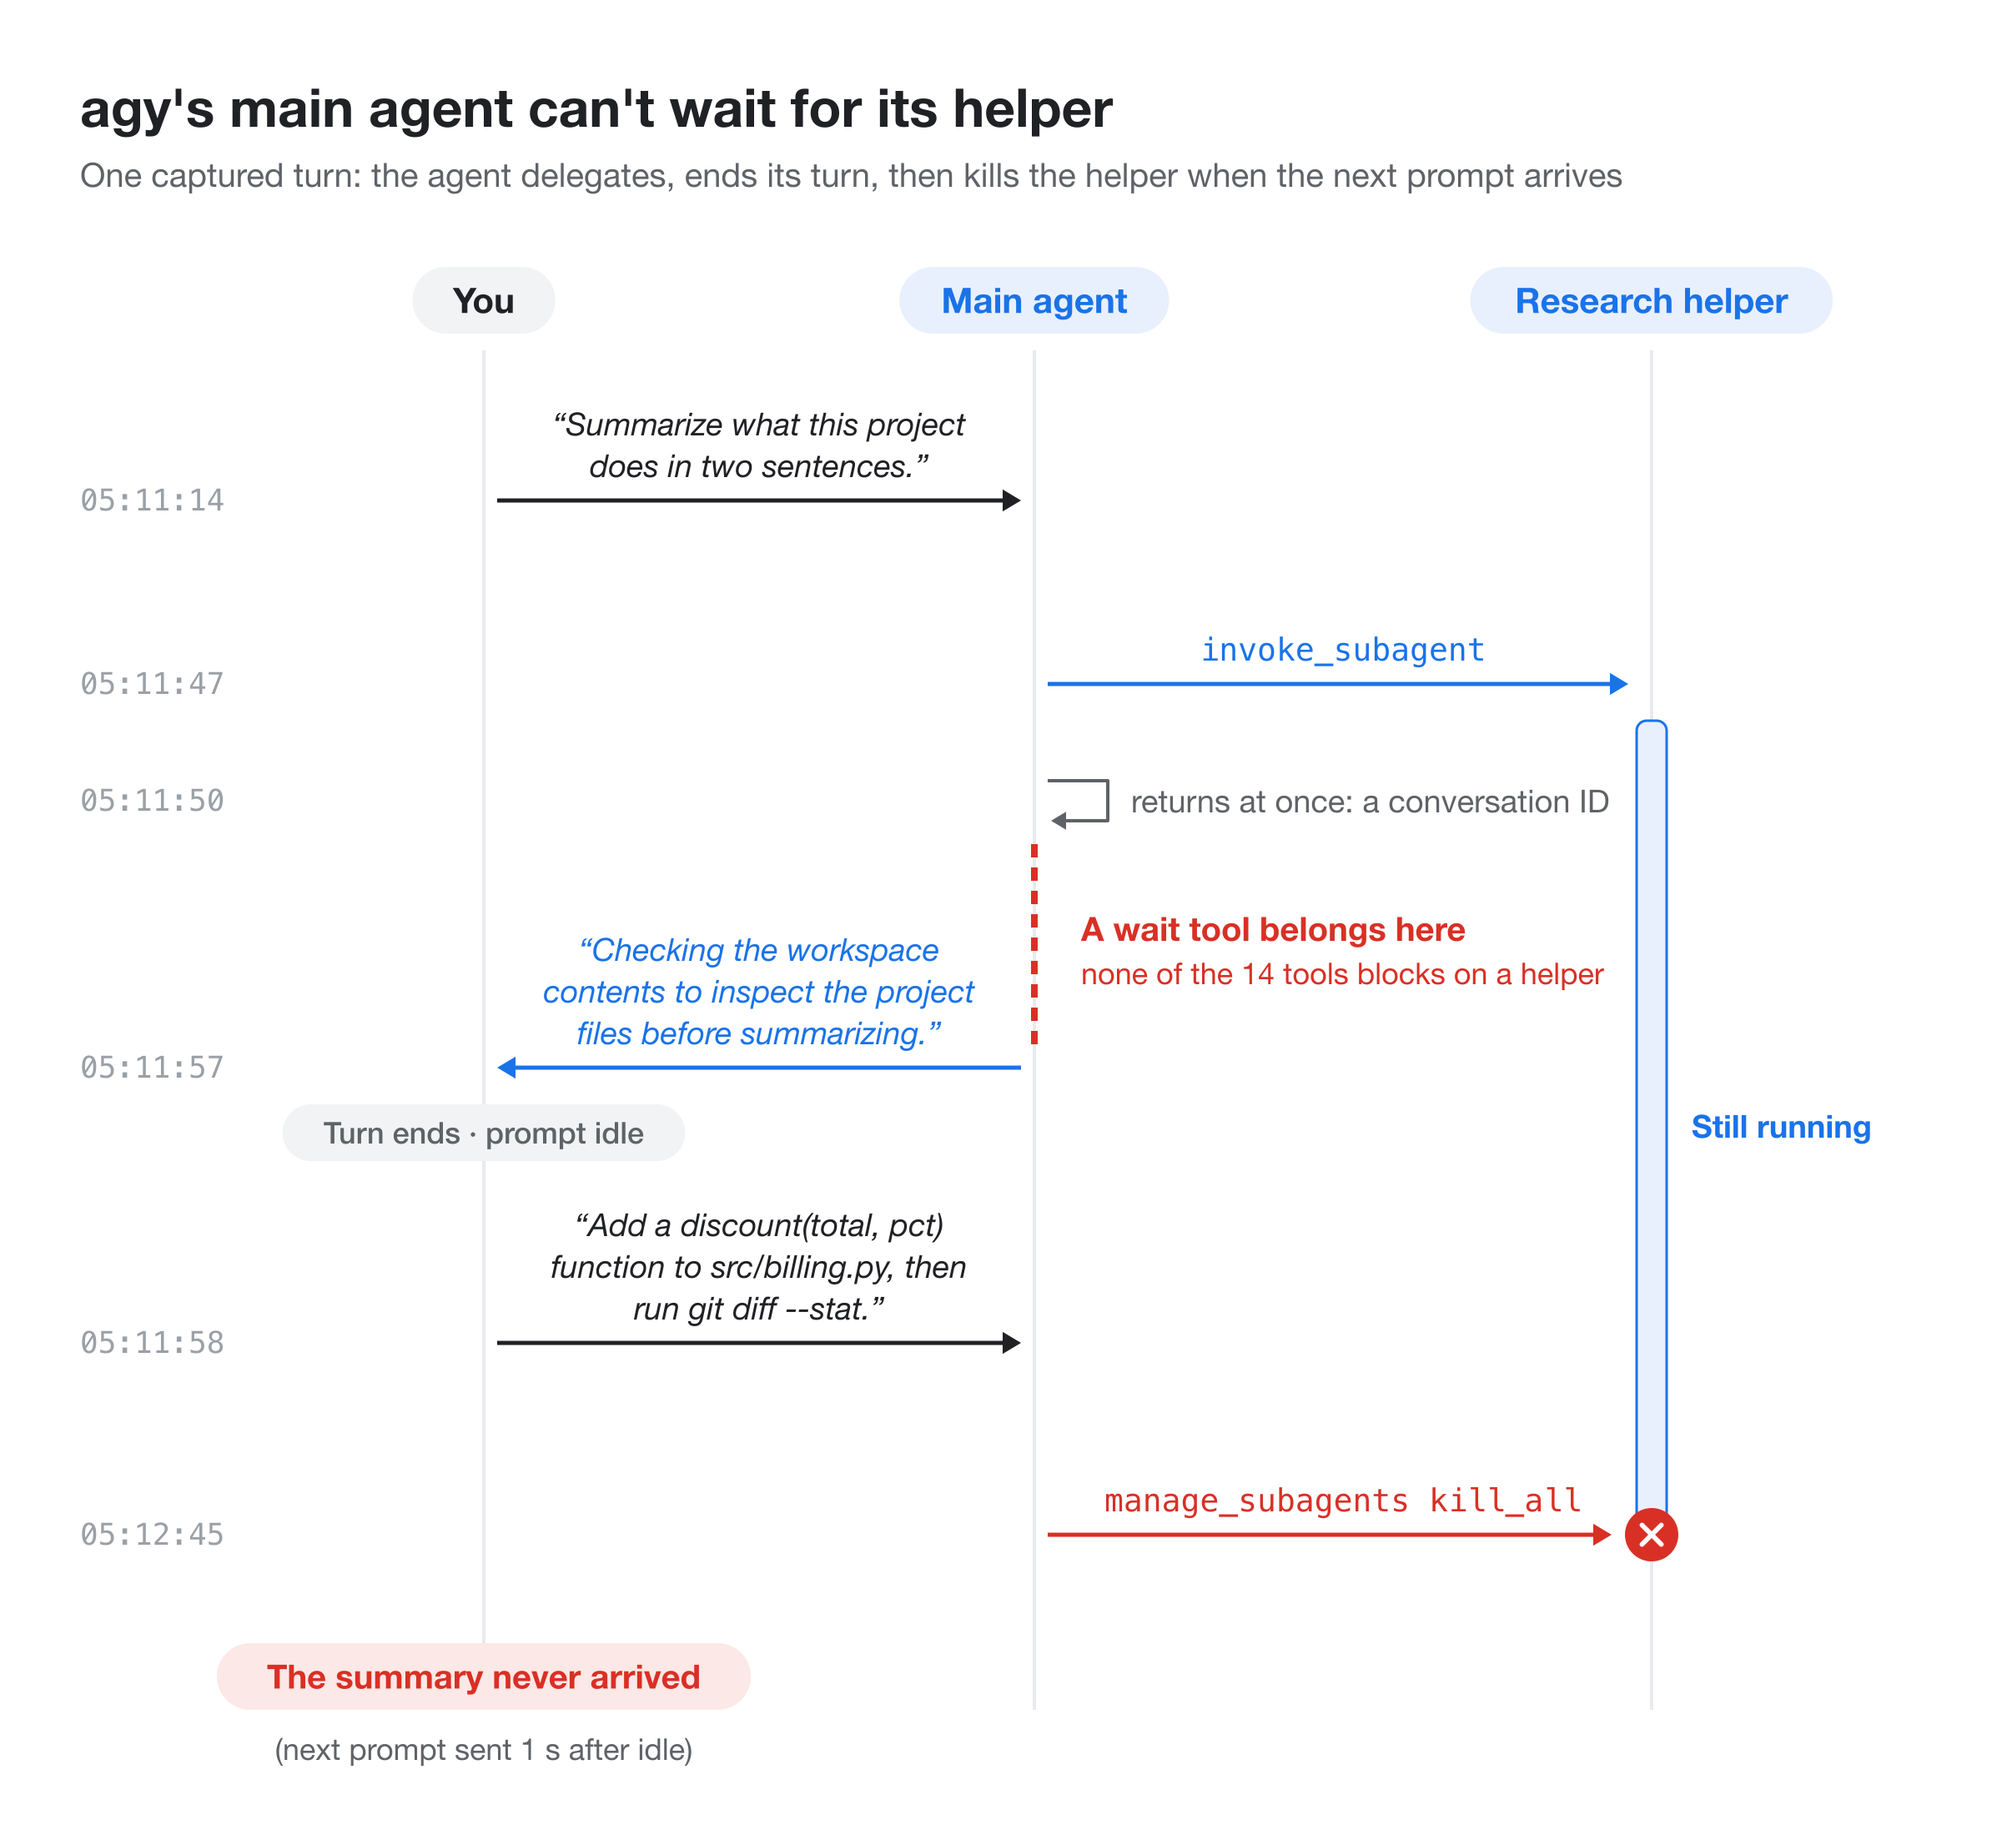
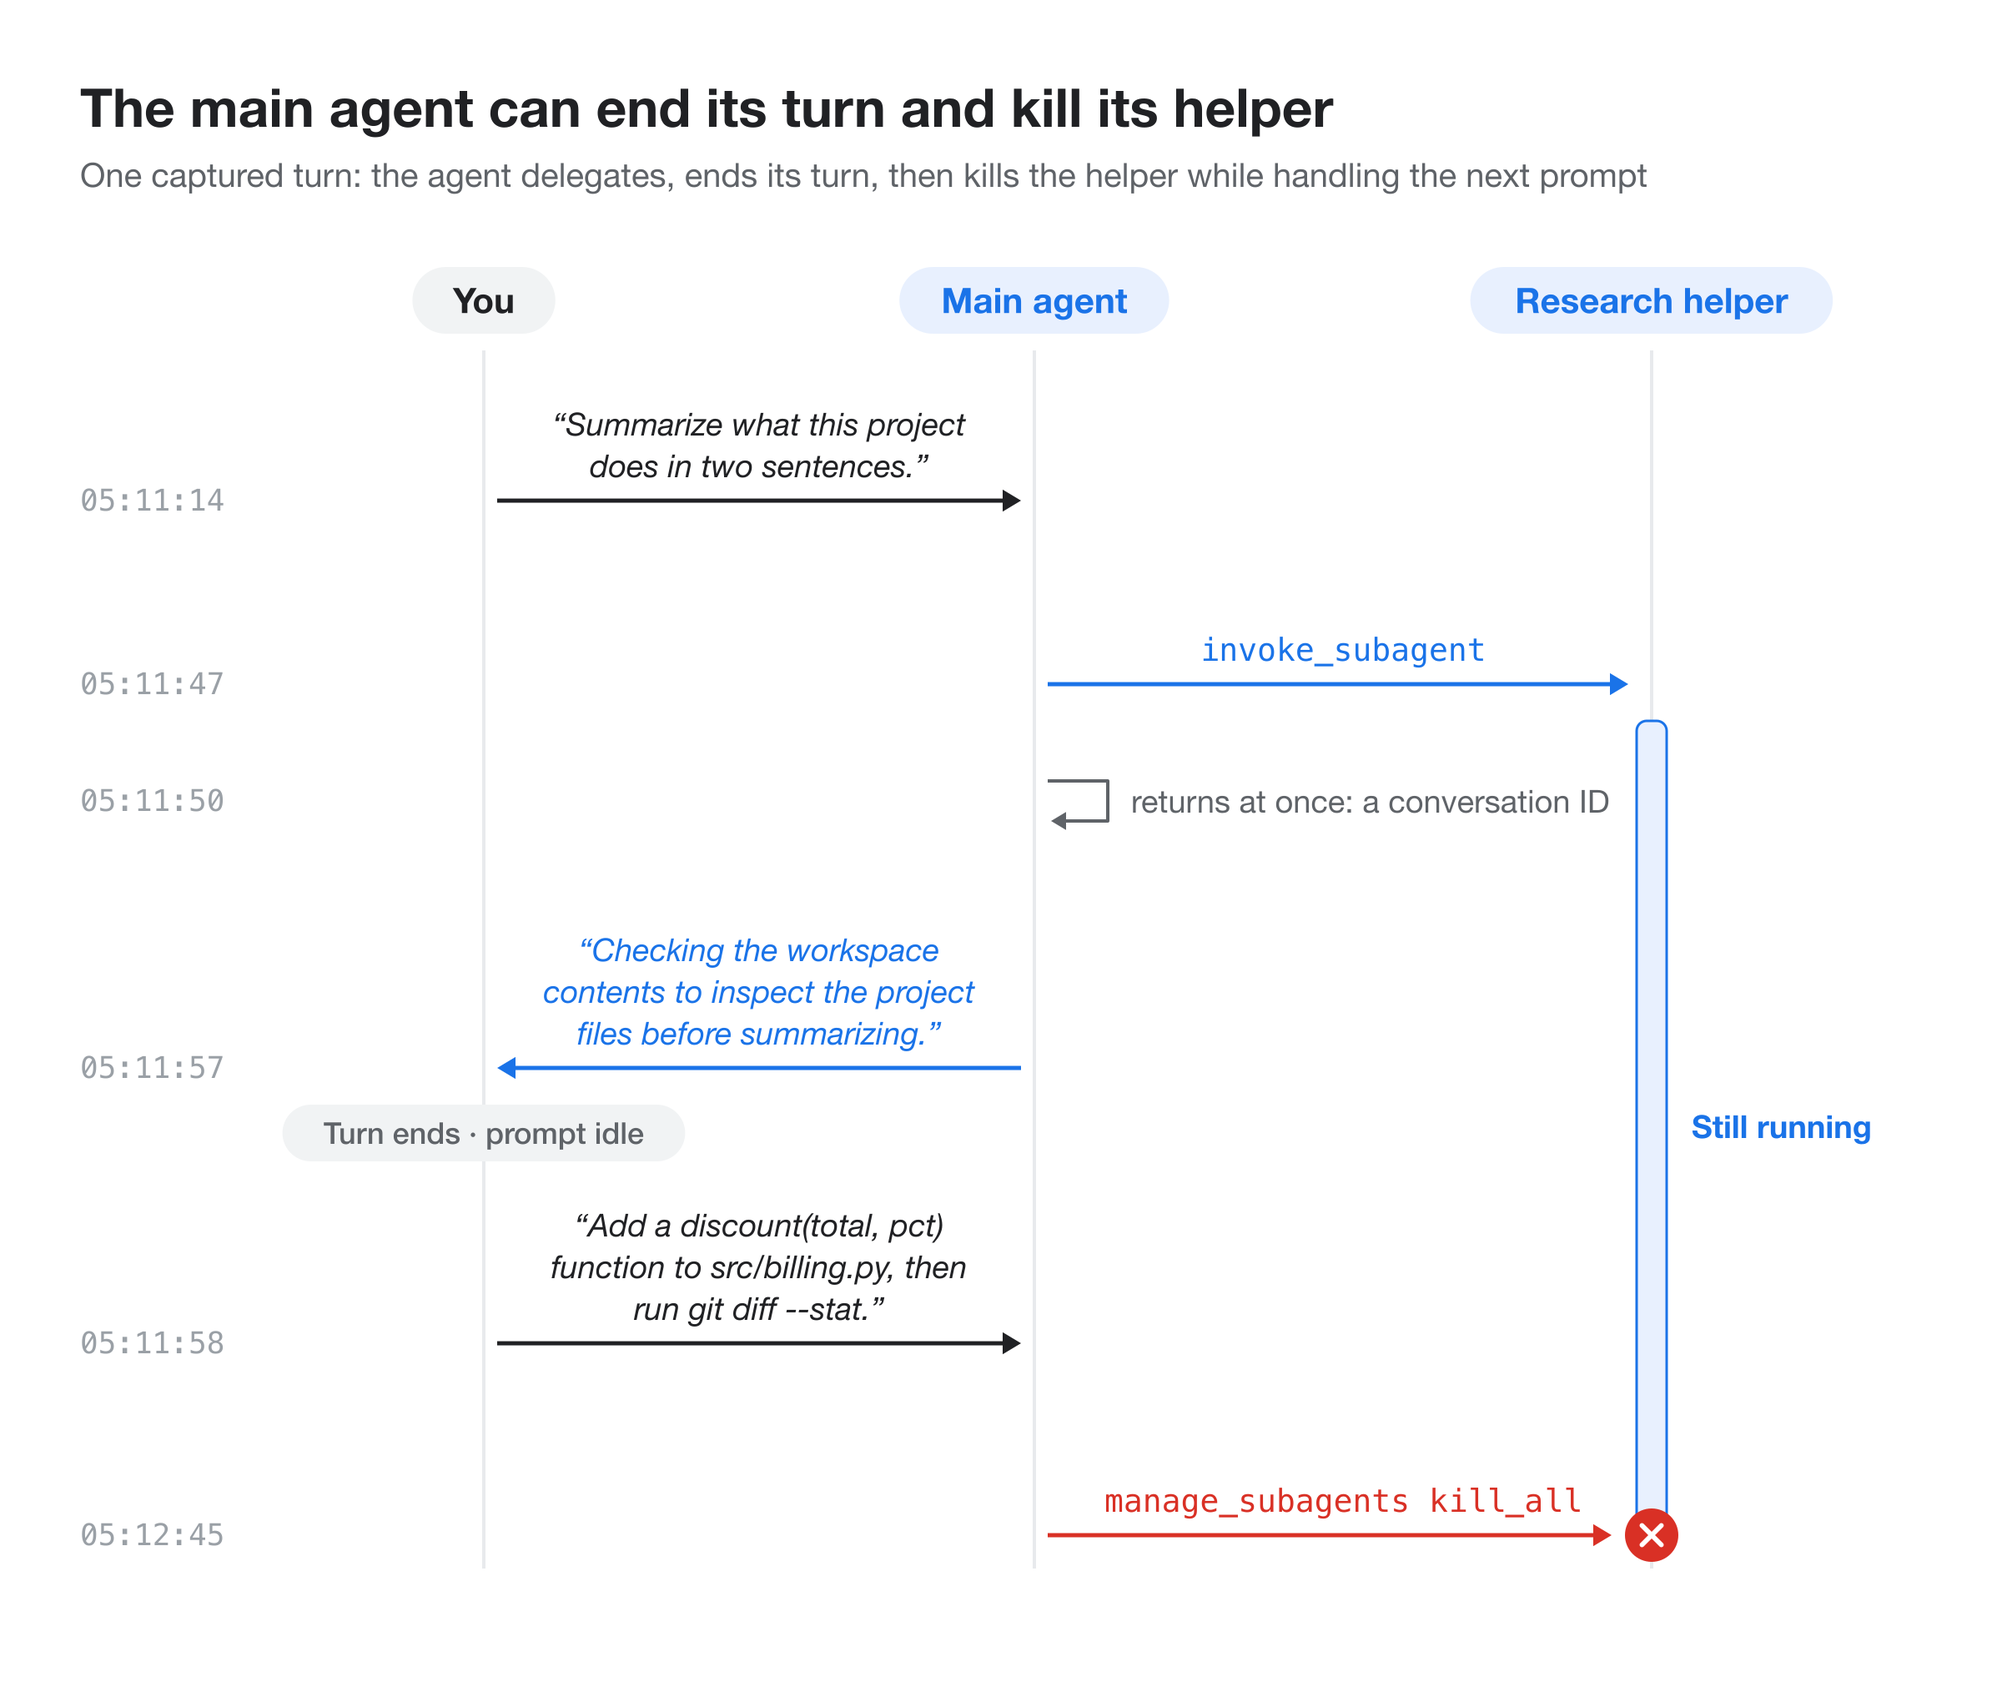
docs: retitle the helper figure and cite the routine-kill rubric
The figure now ends at the kill instead of claiming the answer never arrives, which matches 1.5.14. The agents report quotes the 1.5.14 review rubric that lists killing the agent's own tasks as routine.

diff --git a/analysis/cli/agents-and-swarm.md b/analysis/cli/agents-and-swarm.md
@@ -37,13 +37,14 @@ No tool lets the main agent block until a helper answers. After `invoke_subagent
 
 If the user sends another prompt then, the helper keeps running. In a captured session the next prompt (add a function, then run `git diff --stat`) arrived one second after the turn ended. The main agent made the edit; the helper's report, timestamped 14:21:44, was appended to the result of one of those commands; and the final answer carried both the diff summary and the helper's project summary. In headless mode (`agy -p`) the process stays alive until the helper reports, prints the summary, and exits.
 
-Whether a promised answer arrives is still up to the model. The main agent has `manage_subagents` with `kill_all`, nothing in the prompt says to keep a helper whose answer it promised, and a kill is not shown to the user as a lost answer. The sequence diagram shows a turn in which the main agent, busy with the next prompt, killed the helper before it reported (captured with 1.5.11; 1.5.14 has the same `manage_subagents` tool and description).
+Whether a promised answer arrives is still up to the model. The main agent has `manage_subagents` with `kill_all`, nothing in the prompt says to keep a helper whose answer it promised, a kill is not shown to the user as a lost answer, and the review models' rubric lists "killing the agent's own tasks" among routine actions. The sequence diagram shows a turn in which the main agent, busy with the next prompt, killed the helper before it reported (captured with 1.5.11; 1.5.14 has the same `manage_subagents` tool and description).
 
 ![The main agent delegates, ends its turn, and can kill the helper](../../resources/diagrams/waiting.svg)
 
 Evidence:
 - Traffic: [the report arriving during the next prompt](../../resources/cli/traffic/injected-messages.md); [the report arriving while idle in headless mode](../../resources/cli/traffic/research-helper.md)
 - Tool declarations: [main-agent.json](../../resources/cli/tool-declarations/main-agent.json) (no tool waits on a helper); [manage_subagents-42aee0c4.txt](../../resources/cli/binary-1.5.14/tool_descriptions/manage_subagents-42aee0c4.txt) (same as 1.5.11)
+- Prompt text: [monitor-config.textproto](../../resources/cli/binary-1.5.14/safety/monitor-config.textproto) ("Listing or checking status of the agent's own subagents/tasks, waiting/sleeping, killing the agent's own tasks.")
 - Diagram: [waiting.svg](../../resources/diagrams/waiting.svg)
 
 ## A swarm is a coordinator and members talking on one board
